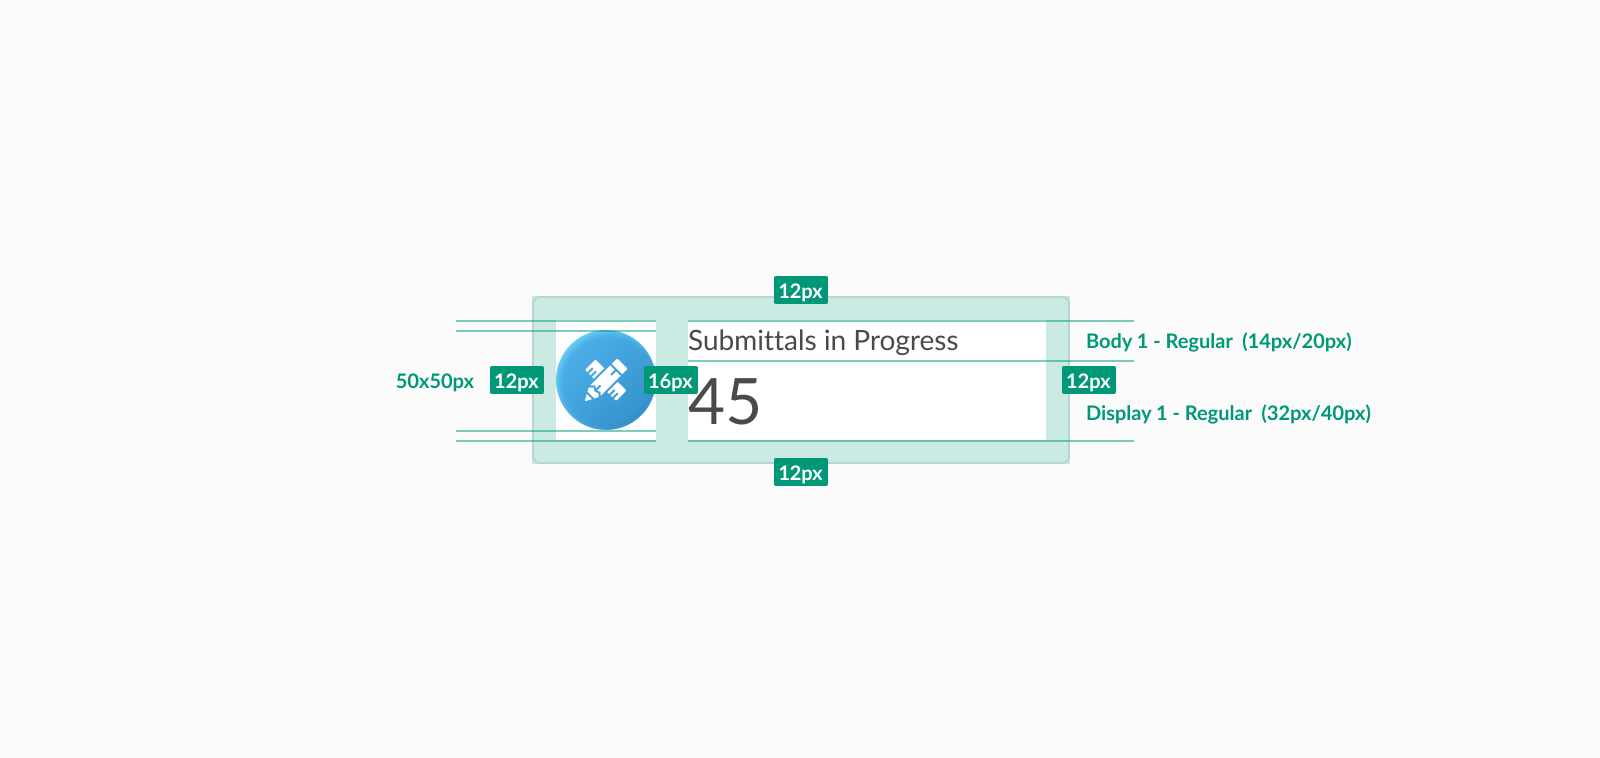
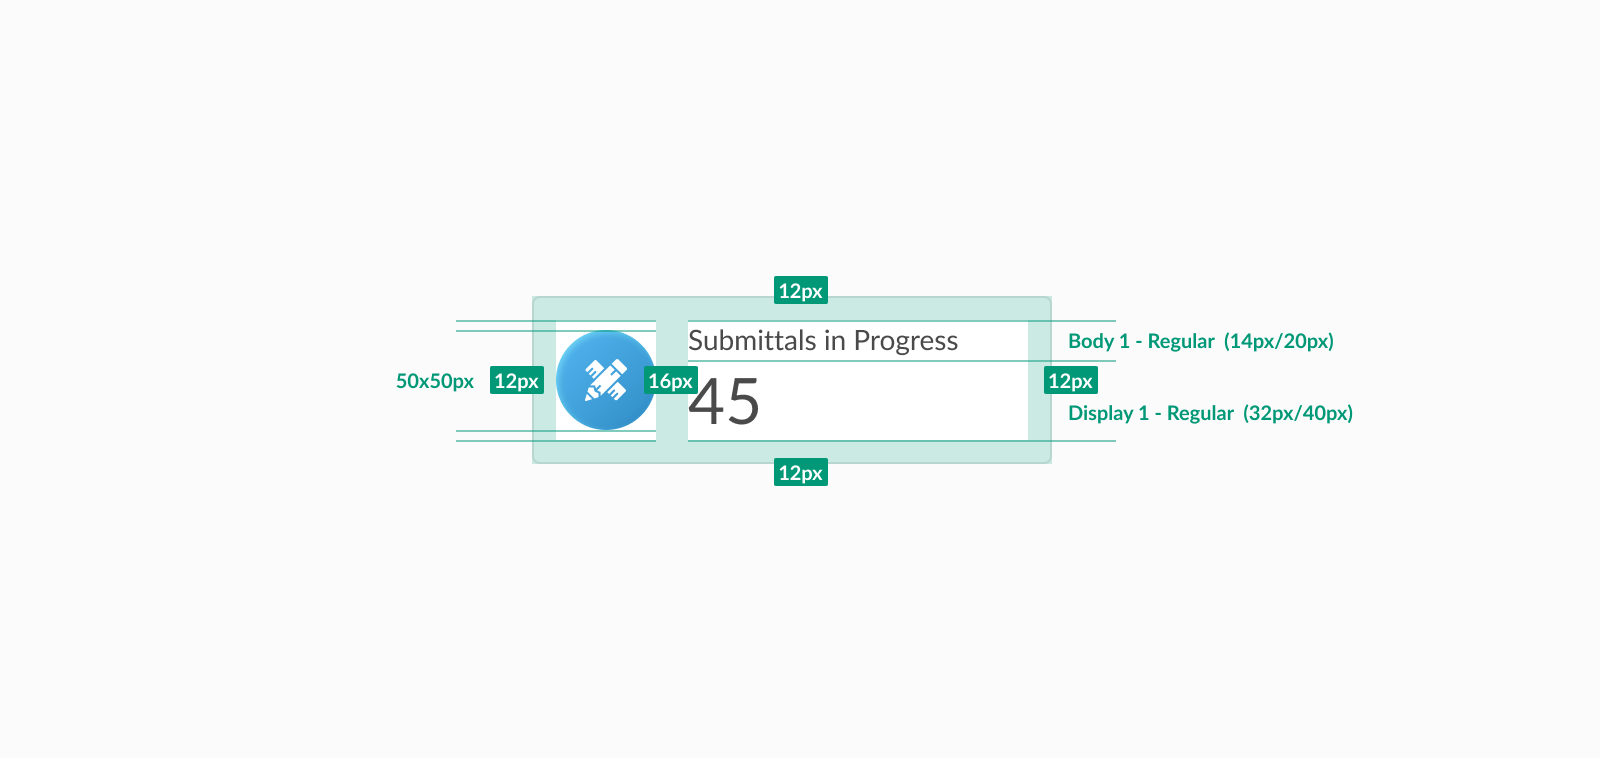
small fix to cards

Changed region(s): [[0.625, 0.3945, 0.8438, 0.6069]]

diff --git a/_posts/web/ui-modules/2021-04-22-cards.md b/_posts/web/ui-modules/2021-04-22-cards.md
@@ -121,7 +121,7 @@ A tile consists of a title, icon and may indicate a value.
 
 ### Live Preview
 {% include snippet.html code='
-<a class="card tile" href="#" style="width: 200px">
+<a class="card tile" href="#" style="width: 260px">
   <div class="tile-icon">
     <i class="icn icn-Drawings-Filled"></i>
   </div>
